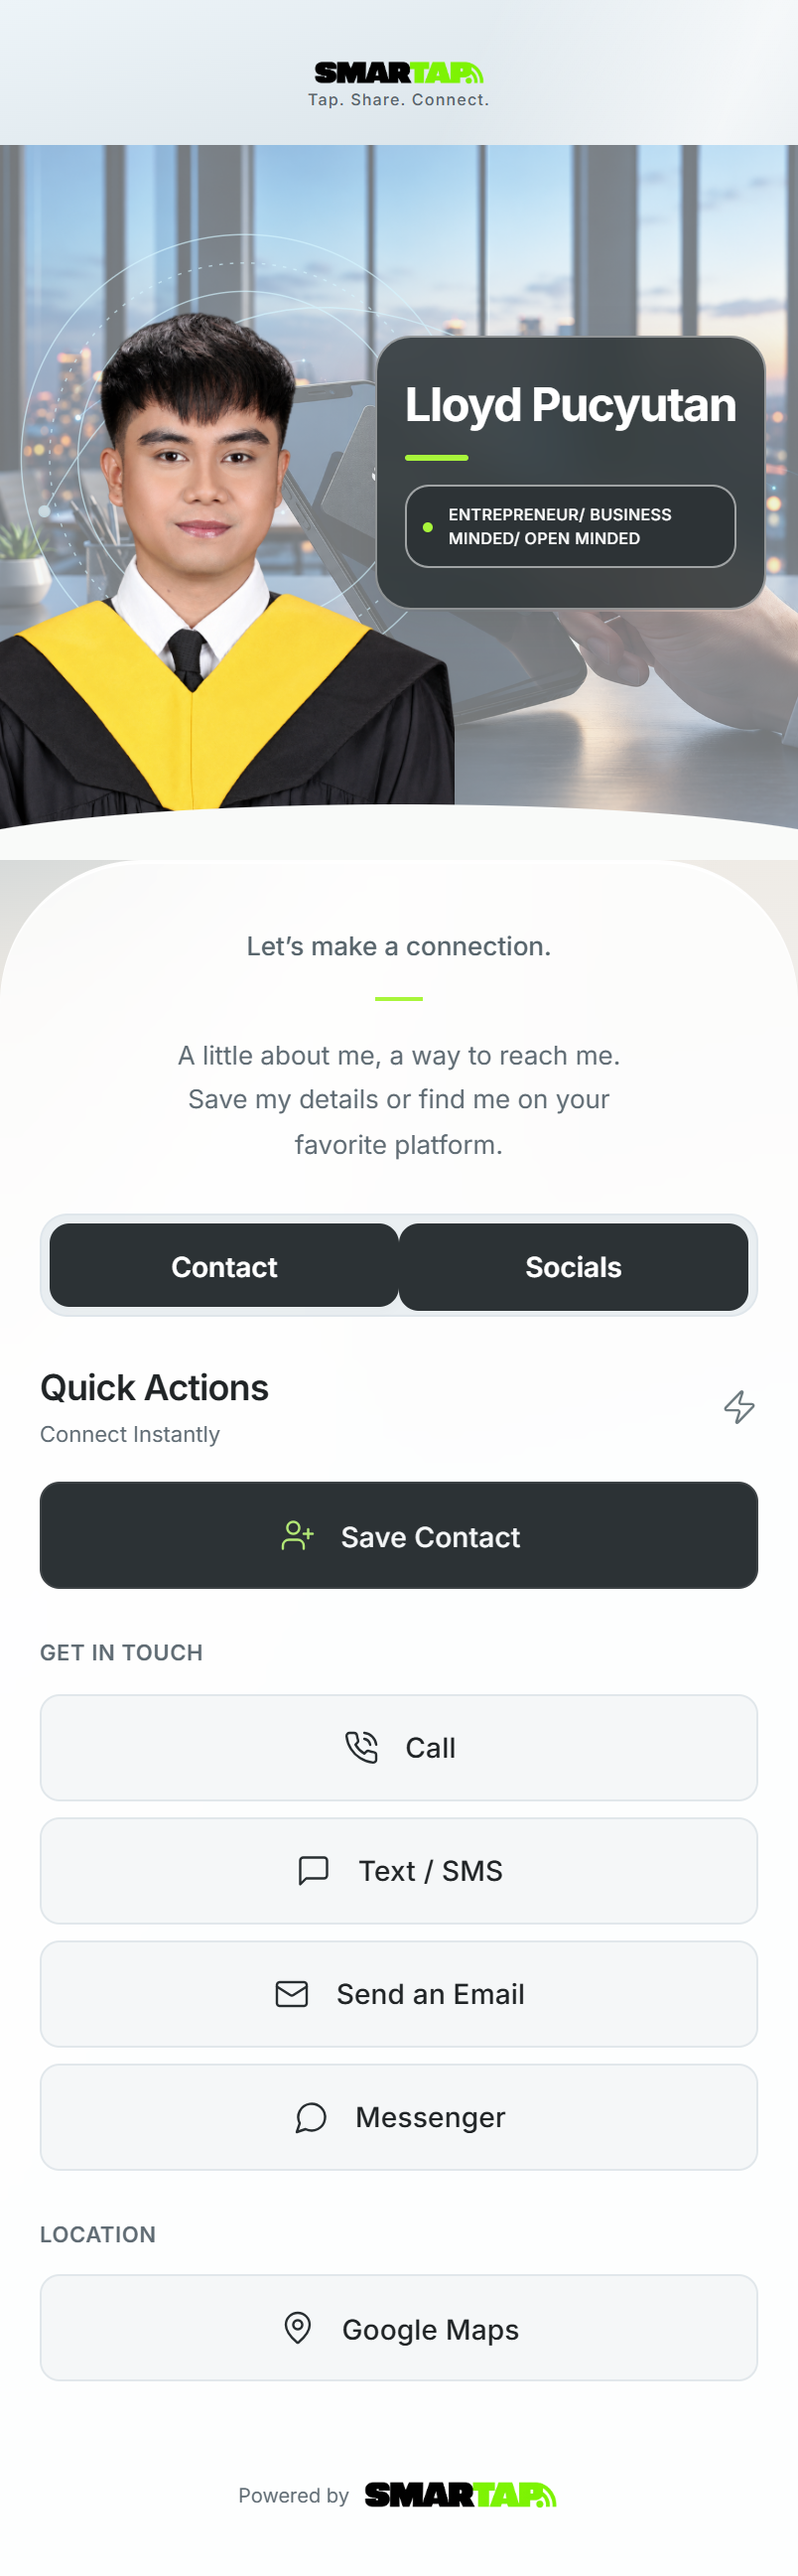
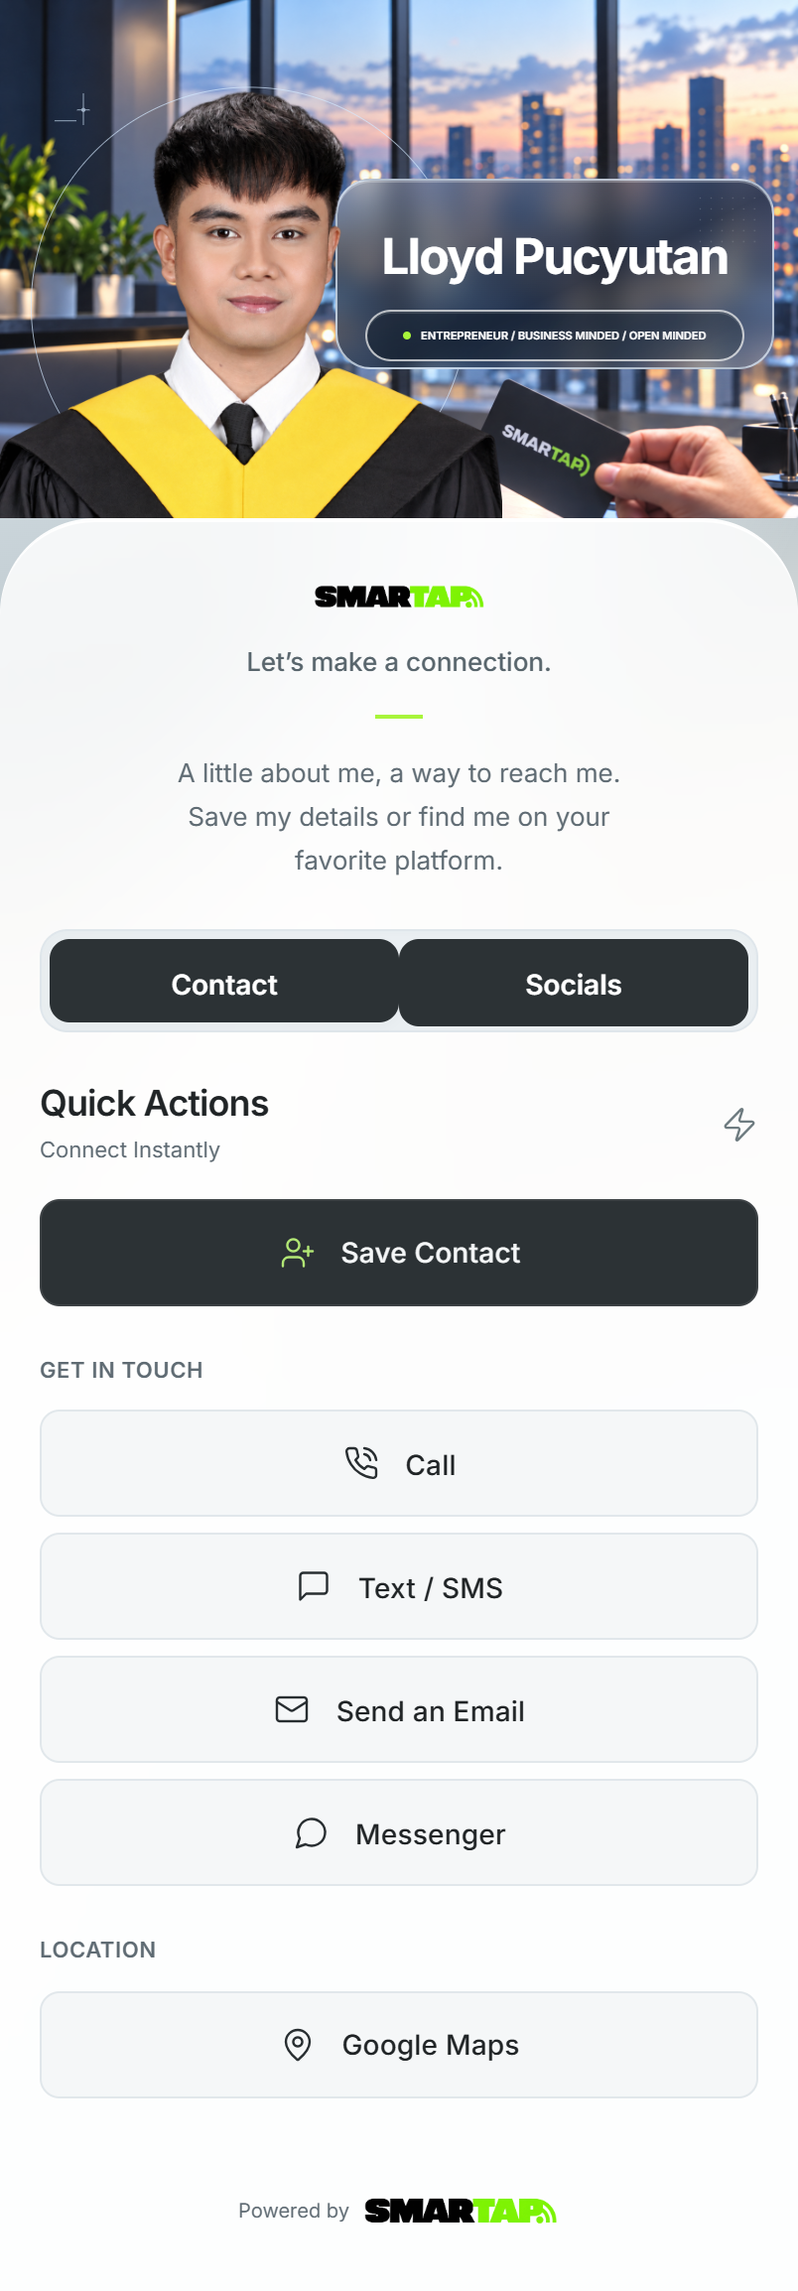
.

diff --git a/src/styles/global.css b/src/styles/global.css
@@ -12,15 +12,17 @@ svg { flex-shrink: 0; }
 .portrait { position: absolute; display: block; width: 280px; max-width: calc(100% - 32px); height: 350px; object-fit: contain; object-position: top center; top: 24px; left: 45%; transform: translateX(-50%); mask-image: linear-gradient(#000 78%,transparent 98%); }
 .identity-label { position: absolute; bottom: 16px; left: 50%; transform: translateX(-50%); width: max-content; max-width: calc(100% - 32px); display: flex; align-items: center; gap: 8px; padding: 10px 14px; border: 1px solid rgba(255,255,255,.55); border-radius: 24px; background: rgba(44,50,53,.9); backdrop-filter: blur(12px); -webkit-backdrop-filter: blur(12px); color: #fff; font-size: 9px; line-height: 1.5; font-weight: 500; letter-spacing: .6px; text-align: center; box-shadow: 0 4px 16px #163d3210; }
 .identity-label span { width: 5px; height: 5px; flex-shrink: 0; border-radius: 50%; background: var(--lime); }
-.portrait-stage { height: 400px; }
-.hero-background { object-position: 60% center; }
+.portrait-stage { height: auto; aspect-ratio: 1017 / 687; }
+.hero-background { object-position: center; opacity: .5; }
 .hero-signals { position: absolute; inset: 0; width: 100%; height: 100%; stroke: #d4f5ff; stroke-width: .8; opacity: .65; pointer-events: none; }
 .hero-signals circle:nth-child(2) { stroke-dasharray: 2 4; }
-.hero-identity { position: absolute; z-index: 5; bottom: 72px; right: 16px; width: 49%; padding: 20px 14px; border: 1px solid #ffffff80; border-radius: 18px; background: rgba(44,50,53,.58); backdrop-filter: blur(18px) saturate(125%); -webkit-backdrop-filter: blur(18px) saturate(125%); box-shadow: inset 0 1px 0 #ffffff30,0 8px 24px #16273520; }
+.hero-panel-dots { position: absolute; width: 15%; height: auto; top: 6%; right: 3%; opacity: .18; pointer-events: none; }
+.hero-identity { position: absolute; z-index: 2; top: 34.5%; bottom: auto; right: 5%; width: 55%; height: auto; padding: 3.5% 2.5%; border: 1px solid #e5f2ffb3; border-radius: 18px; background: rgba(16,29,50,.18); backdrop-filter: blur(3px); -webkit-backdrop-filter: blur(3px); box-shadow: inset 0 1px 0 #ffffff40,0 0 12px #8bbaff25; }
 .hero-identity { container-type: inline-size; }
-.hero-identity h1 { color: #fff; font-size: clamp(12px,10.5cqw,21px); line-height: 1.2; letter-spacing: -.02em; white-space: nowrap; }
-.hero-identity .identity-label { margin-top: 12px; position: static; transform: none; width: 100%; max-width: none; padding: 0; border: 0; border-radius: 0; background: transparent; backdrop-filter: none; -webkit-backdrop-filter: none; font-size: 8px; letter-spacing: .2px; text-align: left; box-shadow: none; }
-.portrait-stage .portrait { z-index: 3; width: 64%; max-width: none; height: 380px; left: -7%; top: auto; bottom: 0; transform: none; object-position: bottom center; mask-image: none; }
+.hero-identity h1 { color: #fff; font-size: 13cqw; font-weight: 700; line-height: 1.2; letter-spacing: -.035em; white-space: nowrap; text-align: center; }
+.hero-identity .identity-label { color: #fff; margin-top: 6%; position: static; transform: none; width: 100%; max-width: none; padding: 4% 3%; border: 1px solid #ffffffb3; border-radius: 999px; background: #18212b55; backdrop-filter: blur(8px); -webkit-backdrop-filter: blur(8px); font-size: 2.9cqw; font-weight: 600; letter-spacing: 0; white-space: nowrap; gap: 5px; text-align: center; justify-content: center; text-shadow: none; box-shadow: inset 0 1px 0 #ffffff20; }
+.hero-identity .identity-label span { width: 4px; height: 4px; }
+.portrait-stage .portrait { z-index: 3; width: 65%; max-width: none; height: auto; left: 0; top: 8%; bottom: auto; transform: none; object-position: top center; mask-image: none; }
 .profile-surface { position: relative; z-index: 4; margin-top: -48px; background: var(--glass); backdrop-filter: blur(16px); -webkit-backdrop-filter: blur(16px); border: 1px solid rgba(255,255,255,.75); border-radius: 48px 48px 28px 28px; padding: 24px 20px; box-shadow: inset 0 1px 0 #fff,0 8px 28px #163d3207; }
 .profile-copy { text-align: center; }
 .profile-wordmark { display: block; width: 88px; max-width: 100%; height: auto; margin: 0 auto; }
@@ -66,17 +68,10 @@ h2 { margin: 0 0 4px; font-size: 18px; font-weight: 600; letter-spacing: -.45px;
 .social-icon.instagram svg { width: 17px; height: 17px; }
 .social-icon.tiktok { color: #101010; }
 .social-icon.tiktok svg { filter: drop-shadow(-1px -1px 0 #25f4ee) drop-shadow(1px 1px 0 #fe2c55); }
-@media (hover:hover) and (pointer:fine) {
-  .action-row:not(:disabled):hover { background: #2C3235; border-color: #2C3235; color: #fff; transform: translateY(-2px); box-shadow: 0 4px 12px #163d320a; }
-  .action-primary:not(:disabled):hover, .actions-panel .action-primary:not(:disabled):hover { background: #2C3235; border-color: #2C3235; color: #fff; box-shadow: 0 4px 12px #163d3214; }
-  .segmented-control button:hover { color: #fff; background-color: #2C3235; }
-}
-.action-row:active, .action-row:not(:disabled):hover:active { background: #2C3235; border-color: #2C3235; color: #fff; box-shadow: none; transform: translateY(0); }
-.action-primary:active, .actions-panel .action-primary:active,
-.action-primary:not(:disabled):hover:active, .actions-panel .action-primary:not(:disabled):hover:active { background: #2C3235; border-color: #2C3235; color: #fff; box-shadow: none; }
-.action-row:not(.action-primary):is(:hover, :active):not(:disabled) .action-icon:not(.social-icon) { color: #fff; }
+.action-row:active { background: #2C3235; border-color: #2C3235; color: #fff; box-shadow: none; }
+.action-primary:active, .actions-panel .action-primary:active { background: #2C3235; border-color: #2C3235; color: #fff; box-shadow: none; }
+.action-row:not(.action-primary):active:not(:disabled) .action-icon:not(.social-icon) { color: #fff; }
 .social-row:active .social-icon.tiktok { color: #fff; }
-@media (hover:hover) and (pointer:fine) { .social-row:hover .social-icon.tiktok { color: #fff; } }
 .action-row:focus-visible { outline-color: #2C3235; }
 .action-row:disabled { color: var(--muted); cursor: not-allowed; background: #f1f4f5; }
 .powered-by { display: flex; align-items: center; flex-direction: column; gap: 6px; margin-top: 20px; color: #5f6b73; font-size: 10px; line-height: 1.5; }
@@ -95,7 +90,7 @@ h2 { margin: 0 0 4px; font-size: 18px; font-weight: 600; letter-spacing: -.45px;
   .profile-surface { flex: 1; border-inline: 0; border-bottom: 0; border-radius: 48px 48px 0 0; box-shadow: inset 0 1px 0 #fff; padding-left: max(20px,env(safe-area-inset-left)); padding-right: max(20px,env(safe-area-inset-right)); }
   .powered-by { margin-top: 0; padding: 16px 20px max(24px,env(safe-area-inset-bottom)); background: var(--glass); backdrop-filter: blur(16px); -webkit-backdrop-filter: blur(16px); }
 }
-@media (prefers-reduced-motion:reduce) { *,*::before,*::after { transition: none !important; } .action-row:not(:disabled):hover { transform: none; } }
+@media (prefers-reduced-motion:reduce) { *,*::before,*::after { transition: none !important; } }
 
 
 

diff --git a/src/components/Hero.jsx b/src/components/Hero.jsx
@@ -2,15 +2,16 @@ import { profile } from '../profile';
 
 export default function Hero() {
   return <section className="portrait-stage" aria-label="Profile portrait">
-    <img className="hero-background" src="/smartap-dusk-background.png" alt="" aria-hidden="true" />
+    <img className="hero-background" src="/smartap-nfc-connection-dusk.png" alt="" aria-hidden="true" />
     <svg className="hero-signals" viewBox="0 0 450 360" fill="none" aria-hidden="true">
       <circle cx="138" cy="155" r="94" /><circle cx="138" cy="155" r="110" /><circle cx="138" cy="155" r="126" />
       <path d="M25 185Q115 20 270 92T420 140" />
       <g fill="#e2f8ff"><circle cx="25" cy="185" r="3" /><circle cx="270" cy="92" r="3" /><circle cx="420" cy="140" r="3" /></g>
     </svg>
     <div className="hero-identity">
+      <svg className="hero-panel-dots" viewBox="0 0 72 60" aria-hidden="true"><defs><pattern id="hero-dot-pattern" width="12" height="12" patternUnits="userSpaceOnUse"><circle cx="6" cy="6" r=".7" fill="white" /></pattern></defs><rect width="72" height="60" fill="url(#hero-dot-pattern)" /></svg>
       <h1>{profile.name}</h1>
-      <span className="identity-label"><span aria-hidden="true" /> ENTREPRENEUR/ BUSINESS MINDED/ OPEN MINDED</span>
+      <span className="identity-label"><span aria-hidden="true" /> ENTREPRENEUR / BUSINESS MINDED / OPEN MINDED</span>
     </div>
     <img className="portrait" src="/profile-cutout.png" alt={profile.name} fetchPriority="high" />
   </section>;

diff --git a/src/App.jsx b/src/App.jsx
@@ -1,5 +1,4 @@
 import { useRef, useState } from 'react';
-
 import Hero from './components/Hero';
 import QuickActions from './components/QuickActions';
 import SocialLinks from './components/SocialLinks';
@@ -38,5 +37,3 @@ export default function App() {
     <footer className="powered-by"><span className="footer-brand">Powered by <img src="/smartap-wordmark.png" alt="SMARTAP" width="2172" height="724" /></span></footer>
   </div>;
 }
-
-
